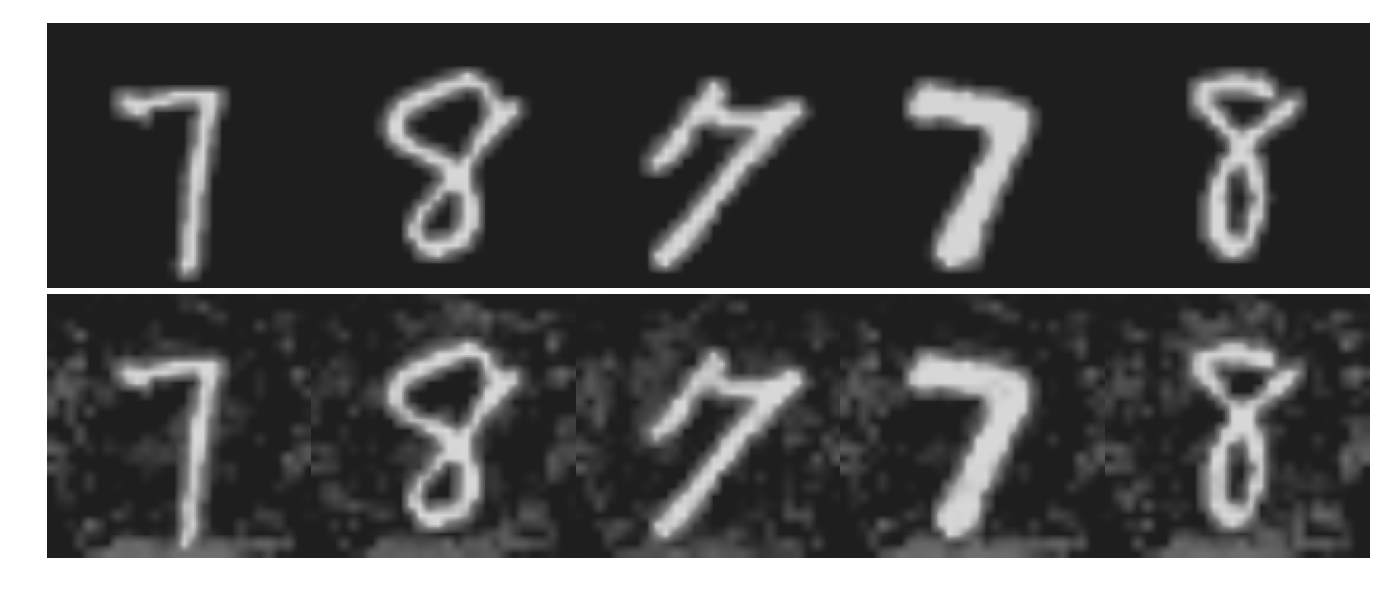
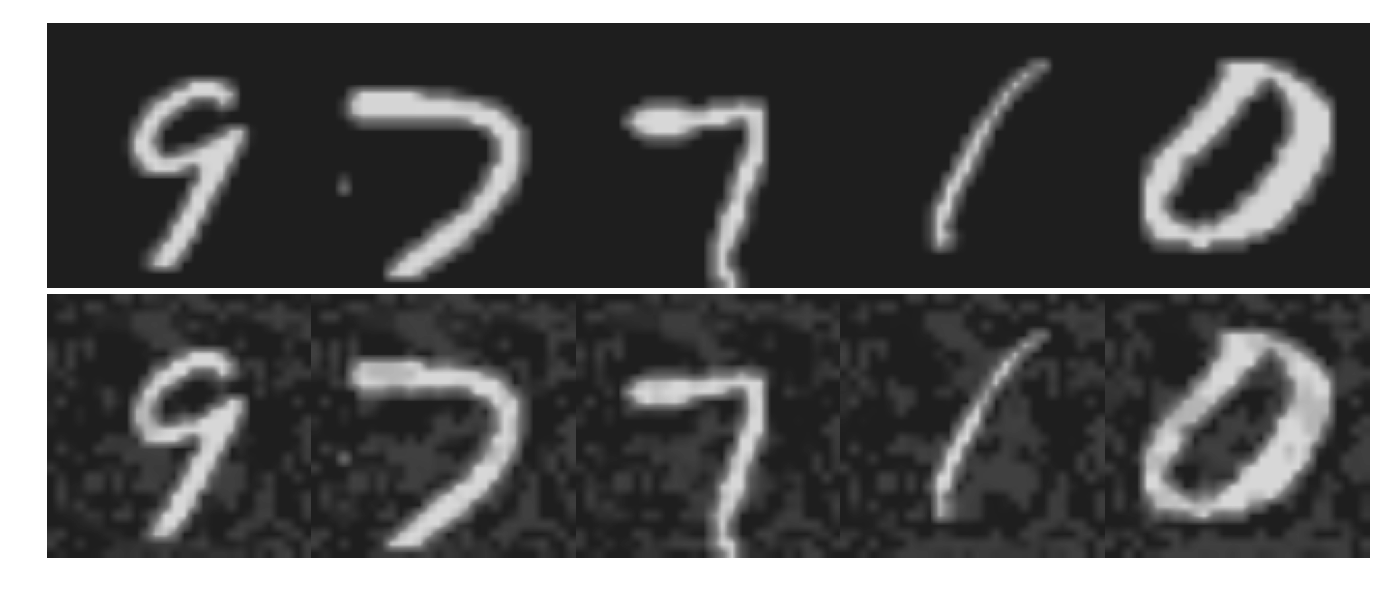
final code

diff --git a/plot_figures/plot_synthesized_data.py b/plot_figures/plot_synthesized_data.py
@@ -5,27 +5,38 @@ import random
 import cv2
 from PIL import Image
 
+
+def plot_sample_synthesized_images(k, models, SFLs):
+    for model_name in models:
+        for SFL_strategy in SFLs:
+            with open(f"../pickles/synth_v2/synthesized_dataset_{model_name}_{SFL_strategy}_k{k}.pickle", 'rb') as handle:
+                synthesized_dataset = pickle.load(handle)
+
+            random.shuffle(synthesized_dataset)
+
+            fig, ax = plt.subplots(2, 5, figsize=(14, 6))
+            fig.tight_layout()
+            for i in range(5):
+                for j in range(2):
+                    img = synthesized_dataset[i][j]
+                    img = cv2.resize(img, (128, 128))
+                    ax[j, i].imshow(img)
+                    ax[j, i].axis('off')
+
+            plt.subplots_adjust(wspace=0, hspace=0)
+            plt.savefig(f"./figures/synthesized_samples_{model_name}_{SFL_strategy}.png")
+
+            if "mnist" in model_name:
+                image = Image.open(f"./figures/synthesized_samples_{model_name}_{SFL_strategy}.png").convert("L")
+                image.save(f"./figures/synthesized_samples_{model_name}_{SFL_strategy}.png")
+
+
+models = ["Model_mnist_1", "Model_mnist_2", "Model_mnist_3"]
+SFLs = ["tarantula", "ochiai", "barinel"]
 k = 10
+plot_sample_synthesized_images(k, models, SFLs)
 
-for model_name in ["Model_cifar_3"]:
-    for SFL_strategy in ["tarantula", "ochiai", "barinel"]:
-        with open(f"../pickles/synth_v1/synthesized_dataset_{model_name}_{SFL_strategy}_k{k}.pickle", 'rb') as handle:
-            synthesized_dataset = pickle.load(handle)
-
-        random.shuffle(synthesized_dataset)
-
-        fig, ax = plt.subplots(2, 5, figsize=(14, 6))
-        fig.tight_layout()
-        for i in range(5):
-            for j in range(2):
-                img = synthesized_dataset[i][j]
-                img = cv2.resize(img, (128, 128))
-                ax[j, i].imshow(img)
-                ax[j, i].axis('off')
-
-        plt.subplots_adjust(wspace=0, hspace=0)
-        plt.savefig(f"./figures/synthesized_samples_{model_name}_{SFL_strategy}.png")
-
-        if "mnist" in model_name:
-            image = Image.open(f"./figures/synthesized_samples_{model_name}_{SFL_strategy}.png").convert("L")
-            image.save(f"./figures/synthesized_samples_{model_name}_{SFL_strategy}.png")
+models = ["Model_cifar_1", "Model_cifar_2", "Model_cifar_3"]
+SFLs = ["tarantula", "ochiai", "barinel"]
+k = 50
+plot_sample_synthesized_images(k, models, SFLs)

diff --git a/localization_Model_4.py b/localization_Model_4.py
@@ -78,7 +78,7 @@ if __name__ == "__main__":
     )
 
     # model_4_synthsizer = SynthesizeV1(deepcp4.model_name, model, test_loader, pickles_path=deepcp4.path_to_save_pickles, output_path=os.path.join(deepcp4.path_to_save_pickles, "synth_v1"), step_size=10, distance=0.1)
-    model_4_synthsizer = SynthesizeV2(deepcp4.model_name, model, test_loader, pickles_path=deepcp4.path_to_save_pickles, output_path=os.path.join(deepcp4.path_to_save_pickles, "synth_v2"), num_iterations=10, learning_rate=0.06)
+    model_4_synthsizer = SynthesizeV2(deepcp4.model_name, model, test_loader, pickles_path=deepcp4.path_to_save_pickles, output_path=os.path.join(deepcp4.path_to_save_pickles, "synth_v2"), num_iterations=5, learning_rate=0.01)
     verification = SynthesizedsetVerification(deepcp4)
 
     suspiciousness_threshold = 50

diff --git a/localization_Model_5.py b/localization_Model_5.py
@@ -76,7 +76,7 @@ if __name__ == "__main__":
     )
 
     # model_5_synthsizer = SynthesizeV1(deepcp5.model_name, model, test_loader, pickles_path=deepcp5.path_to_save_pickles, output_path=os.path.join(deepcp5.path_to_save_pickles, "synth_v1"), step_size=10, distance=0.1)
-    model_5_synthsizer = SynthesizeV2(deepcp5.model_name, model, test_loader, pickles_path=deepcp5.path_to_save_pickles, output_path=os.path.join(deepcp5.path_to_save_pickles, "synth_v2"), num_iterations=10, learning_rate=0.06)
+    model_5_synthsizer = SynthesizeV2(deepcp5.model_name, model, test_loader, pickles_path=deepcp5.path_to_save_pickles, output_path=os.path.join(deepcp5.path_to_save_pickles, "synth_v2"), num_iterations=5, learning_rate=0.02)
     verification = SynthesizedsetVerification(deepcp5)
 
     suspiciousness_threshold = 50

diff --git a/localization_Model_6.py b/localization_Model_6.py
@@ -75,7 +75,7 @@ if __name__ == "__main__":
     )
 
     # model_6_synthsizer = SynthesizeV1(deepcp6.model_name, model, test_loader, pickles_path=deepcp6.path_to_save_pickles, output_path=os.path.join(deepcp6.path_to_save_pickles, "synth_v1"), step_size=10, distance=0.1)
-    model_6_synthsizer = SynthesizeV2(deepcp6.model_name, model, test_loader, pickles_path=deepcp6.path_to_save_pickles, output_path=os.path.join(deepcp6.path_to_save_pickles, "synth_v2"), num_iterations=10, learning_rate=0.06)
+    model_6_synthsizer = SynthesizeV2(deepcp6.model_name, model, test_loader, pickles_path=deepcp6.path_to_save_pickles, output_path=os.path.join(deepcp6.path_to_save_pickles, "synth_v2"), num_iterations=5, learning_rate=0.04)
     verification = SynthesizedsetVerification(deepcp6)
 
     suspiciousness_threshold = 50
